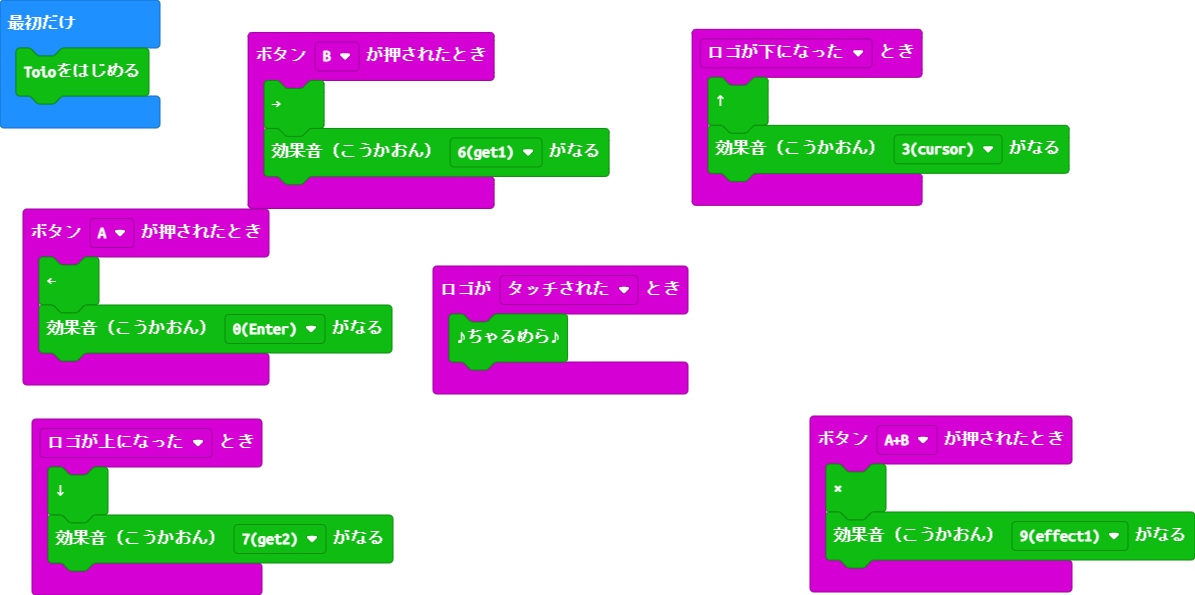
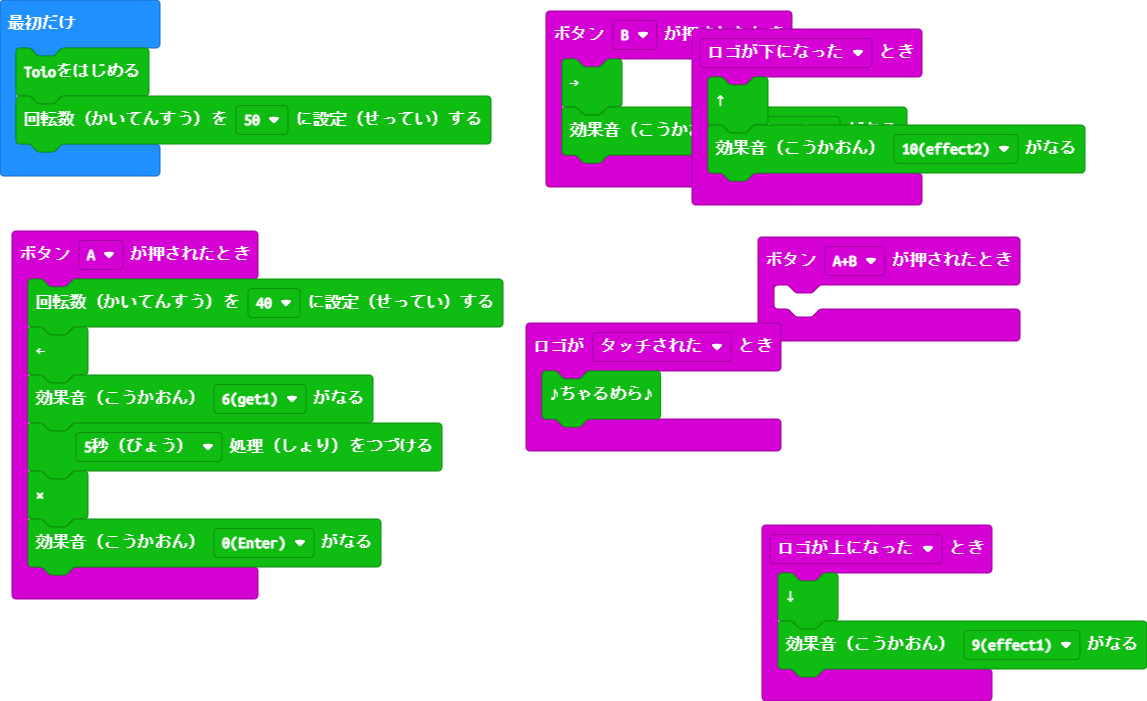
回転数設定関数を実装

diff --git a/custom.ts b/custom.ts
@@ -6,6 +6,17 @@
  * 2023.05.08  (FAP)m-asaoka  新規作成
  *
  */
+/* 動作種類 */
+enum MotionType {
+    //% block="↑"
+    forward = 0,
+    //% block="↓"
+    back = 1,
+    //% block="→"
+    right = 2,
+    //% block="←"
+    left = 3
+}
 /* プリセットされた音 */
 enum SoundEffect {
     //% block="0(Enter)"
@@ -44,7 +55,7 @@ enum WaitTime {
     //% block="60秒（びょう）"
     WAIT5 = 60000
 }
-/* モーター回転数*/
+/* モーター回転数 */
 enum ThrottleKind {
     //% block="10"
     TH10 = 10,
@@ -196,6 +207,44 @@ namespace custom {
         let strSendTxt = "presetsound=" + strEffectType;
         sendText(strSendTxt);
     }
+    /**
+    * 処理（しょり）を指定した秒数つづけるよ
+    */
+    //% block=" %value 処理（しょり）をつづける"
+    //% group="レベル１"
+    export function waittime(waittime: WaitTime): void {
+        if (bInit != true) {
+            return;
+        }
+        let strWaitTime = convertToText(waittime);
+        let strSendTxt = "wait=" + strWaitTime;
+        sendText(strSendTxt);
+    }
+    /**
+    * 回転数（かいてんすう）を設定（せってい）するよ
+    */
+    //% block="回転数（かいてんすう）を %value に設定（せってい）する"
+    // ThrottleKind.defl = ThrottleKind.TH10
+    //% group="レベル2"
+    export function setthrottle(throttle: ThrottleKind): void {
+        if (bInit != true) {
+            return;
+        }
+        defaultThrottle = throttle;
+    }
+    /**
+    * 回転数（かいてんすう）と進む（すすむ）方向（ほうこう）を設定（するよ）
+    */
+    //% block=" %value の方向（ほうこう）に 回転数（かいてんすう）%value2 ですすむ" 
+    // MotionType.defl = MotionType.forward
+    // ThrottleKind.defl = ThrottleKind.TH10
+    //% group="レベル2"
+    export function setthrottleanddir(dir:MotionType, throttle: ThrottleKind): void {
+        if (bInit != true) {
+            return;
+        }
+    }
+
     /**
     *  文字列をシリアル通信ポートに送信します
     */

diff --git a/main.ts b/main.ts
@@ -2,23 +2,27 @@ input.onLogoEvent(TouchButtonEvent.Touched, function () {
     custom.playCharumera()
 })
 input.onButtonPressed(Button.A, function () {
+    custom.setthrottle(ThrottleKind.TH40)
     custom.left()
+    custom.soundEffect(SoundEffect.get1)
+    custom.waittime(WaitTime.WAIT2)
+    custom.stop()
     custom.soundEffect(SoundEffect.enter)
 })
 input.onGesture(Gesture.LogoUp, function () {
     custom.back()
-    custom.soundEffect(SoundEffect.get2)
+    custom.soundEffect(SoundEffect.effect1)
 })
 input.onGesture(Gesture.LogoDown, function () {
     custom.forward()
-    custom.soundEffect(SoundEffect.cursor)
+    custom.soundEffect(SoundEffect.effect2)
 })
 input.onButtonPressed(Button.AB, function () {
-    custom.stop()
-    custom.soundEffect(SoundEffect.effect1)
+	
 })
 input.onButtonPressed(Button.B, function () {
     custom.right()
-    custom.soundEffect(SoundEffect.get1)
+    custom.soundEffect(SoundEffect.get2)
 })
 custom.start()
+custom.setthrottle(ThrottleKind.TH50)
